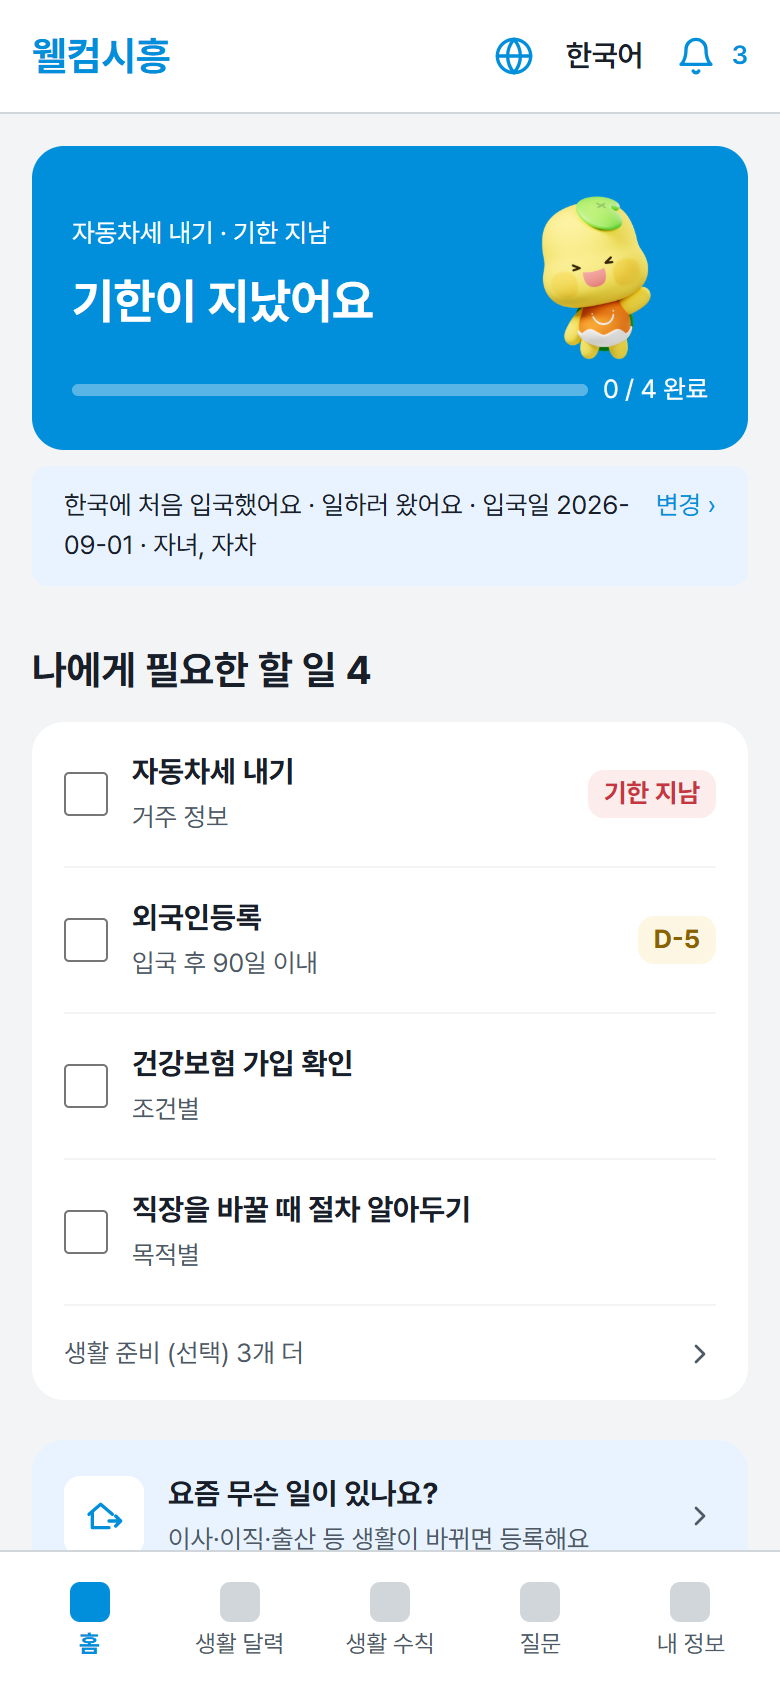
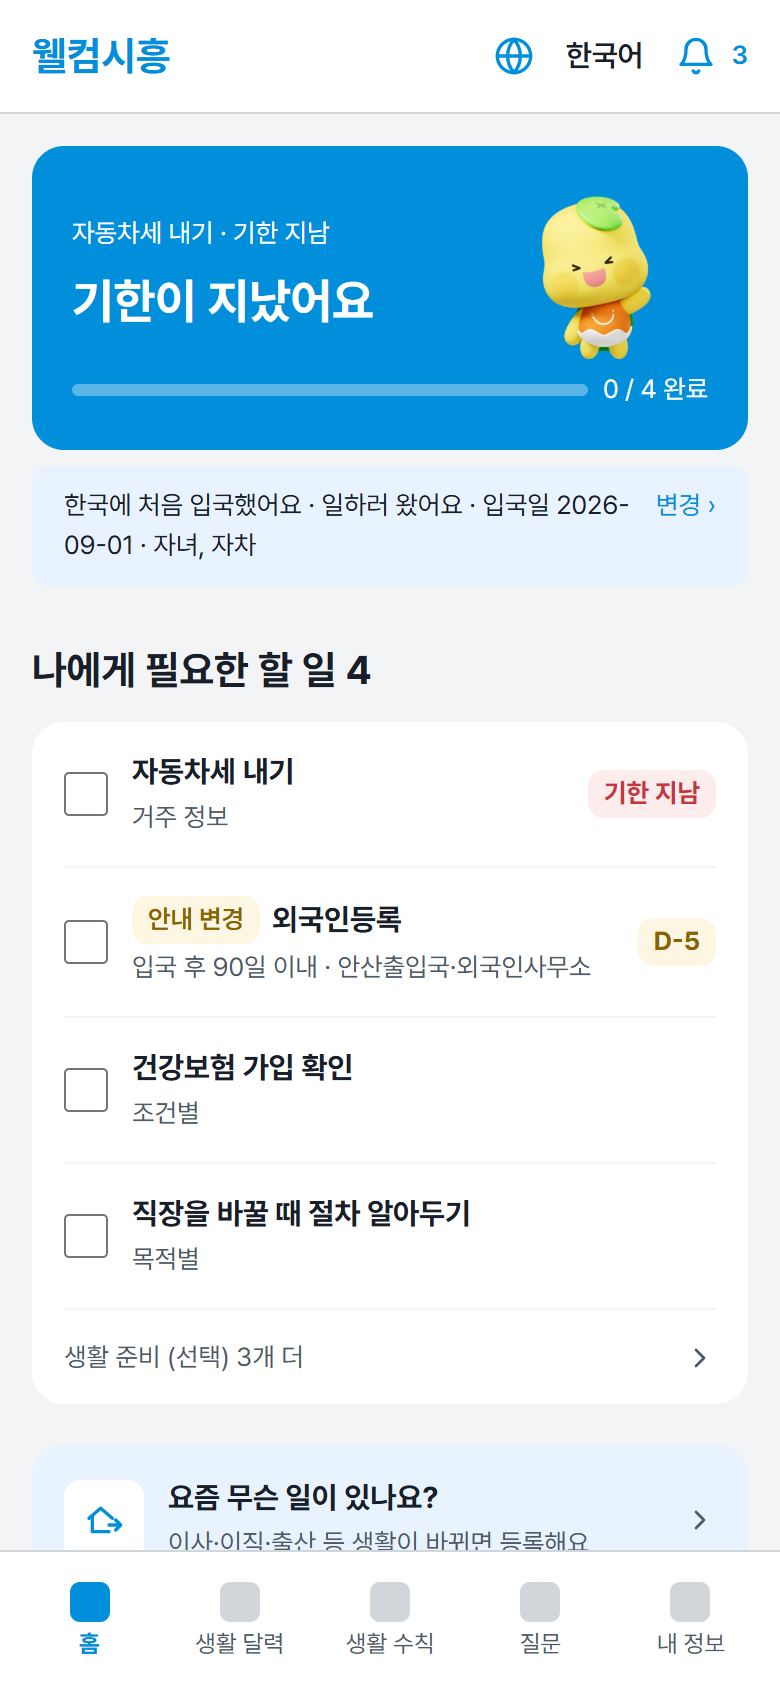
docs: main(#81·#82) 합치기와 상세 화면 연결 기록, 스크린샷 갱신

diff --git a/docs/prompts/2026-11-27-home-figma-v2.md b/docs/prompts/2026-11-27-home-figma-v2.md
@@ -1,7 +1,7 @@
 # 맞춤 홈과 생활 변화 화면을 Figma v2에 맞춤
 
 - 작성일: 2026-11-27
-- 관련 이슈 / PR: 미생성
+- 관련 이슈 / PR: #31, #49 관련. 선행 #81·#82(main에 merge됨)
 
 ## 목적
 
@@ -82,8 +82,20 @@ Figma "맞춤 안내와 질문"의 맞춤 홈(H1, 이사 등록 후)과 "홈 변
 
 미검증: 중국어·베트남어 화면은 문구만 넣고 화면은 촬영하지 않았다. 실제 기기의 날짜 선택기와 스크롤 동작은 브라우저 자동화로만 확인했다.
 
+스크린샷(목업, 390×844): [H1](assets/2026-11-27-home-figma-v2-h1.png), [줄 펼침](assets/2026-11-27-home-figma-v2-row-open.png), [H2](assets/2026-11-27-home-figma-v2-h2.png), [이사 등록 후](assets/2026-11-27-home-figma-v2-moved.png), [F06a](assets/2026-11-27-home-figma-v2-f06a.png), [F06b](assets/2026-11-27-home-figma-v2-f06b.png), [F06b → 상세](assets/2026-11-27-home-figma-v2-f06b-detail.png), [H1 영어](assets/2026-11-27-home-figma-v2-h1-en.png), [F06b 영어](assets/2026-11-27-home-figma-v2-f06b-en.png)
+
+## 2026-11-27 후속: main(#81·#82)과 합치기
+
+- 요약: PR을 올리려는 사이 팀원이 맞춤 홈 보완(#82, #31 일부)과 체크리스트 상세 화면(#81)을 main에 merge해 파일 12개가 충돌했다. AI가 정리 방안을 제안했고, 사용자가 main을 합쳐 정리한 뒤 PR을 올리기로 했다.
+- 선택: 홈 디자인은 이 브랜치(Figma v2) 기준. #82가 한 일(상황 변경 링크, H2 배치, 생활 변화 칩)은 이 브랜치에 같은 동작이 있어 겹치는 코드만 하나로 합쳤다. #81 상세 화면은 그대로 살렸다.
+- 반영
+  - #82의 것을 그대로 쓴다: 상황 링크 문구·접근성 라벨(`home.situationEdit*`), `pickNextItem`(위 카드의 "다음 할 일" 달), `lifeChangeOf`, 칩 문구 `checklist.lifeChangeTag`, 줄의 `showLifeChange`(생활 변화 화면에서는 끔).
+  - 같은 일을 하던 이 브랜치의 것을 지웠다: `life-changes`의 `lifeChangeOf`, `lifeChanges.types.*.short`, `home.change`, `tagFor`.
+  - #82 목록 전환 문구(`nextMonth`·`showAll`·`showNext`)와 홈 CSS의 `.situation` 중복을 지웠다. #82의 `ChecklistCard` 변경은 이 브랜치에서 줄(`TaskRow`)로 바뀐 카드에 반영했다.
+  - 할 일 줄을 펼치면 "기한과 준비물 보기 ›"로 상세 화면에 간다. F06b "방법 보기"는 상세 화면으로 이동한다(위 표의 "보류"를 바꿈). 완료 표시는 상세 화면에서 한다.
+- 검증: `npm run check` 통과(Vitest 268개, main 테스트 포함). 목업에서 홈 줄 펼침 → 상세 링크, F06b 방법 보기 → `/home/checklist/LC-01-1` 상세 화면을 확인했다.
+
 ## 남은 작업
 
 - 백엔드 안내 글: 실제 서버의 체크리스트·생활 변화 할 일에 요약·본문·장소·준비물이 비어 있다. 관리자 화면에서 채우면 코드 수정 없이 보인다. 이번에 확인용으로 LC-05-1(아기 체류자격 부여 신청) 한국어 문구 한 건을 저장했다(사용자 확인 후, 공식 법령으로 확인한 내용만, 다른 언어는 자동 번역). 나머지 생활 변화 할 일은 공식 출처를 조사해 초안을 만드는 중이다.
-- 체크리스트 상세 화면(Figma "체크리스트 상세"): "방법 보기"를 상세 화면으로 옮길지 정한다.
 - Figma의 "시흥시 정왕동" 같은 주소, "자차가 있어서 보여요" 같은 표시 이유, "자동 처리"·"언제든" 표시는 백엔드 데이터가 없어 넣지 않았다.
